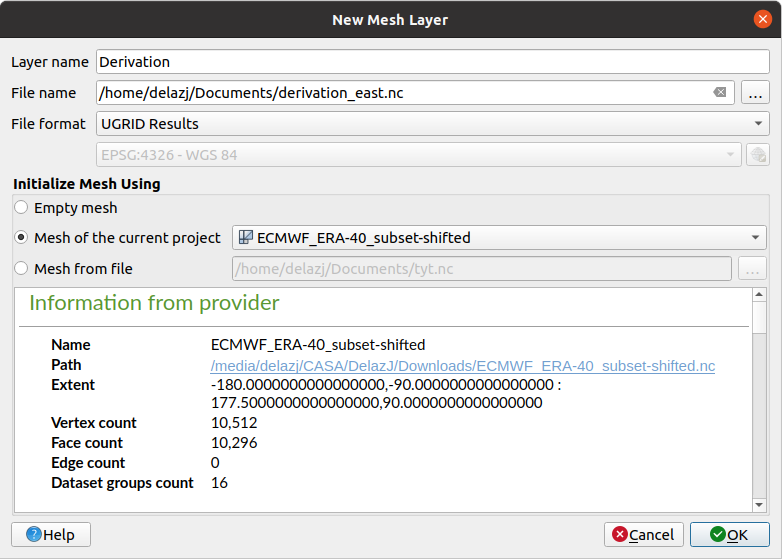
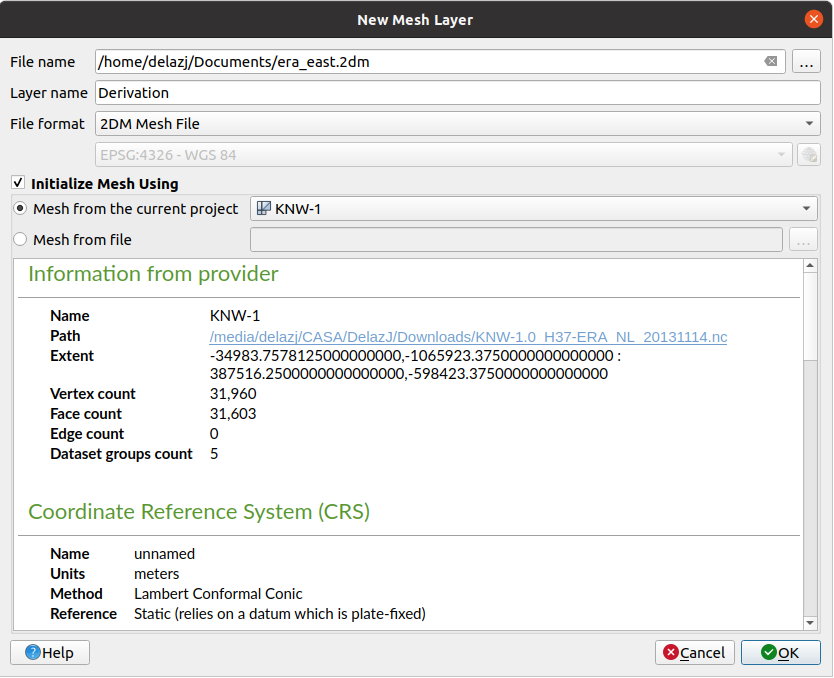
Update mesh layer creation dialog

Changed region(s): [[0.0, 0.0, 1.0, 1.0]]

diff --git a/docs/user_manual/managing_data_source/create_layers.rst b/docs/user_manual/managing_data_source/create_layers.rst
@@ -231,18 +231,18 @@ The :guilabel:`New Mesh Layer` dialog will be displayed as shown in
 #. The first step is to indicate the mesh file location. This can be done
    by pressing the :guilabel:`...` button to the right of the
    :guilabel:`File name` field and select an existing mesh file
-   or create a new one. QGIS will automatically add the right extension to
-   the name you provide.
+   or create a new one.
 #. Provide a name (:guilabel:`Layer name`), i.e. the name the layer is
    displayed with in the :guilabel:`Layers` panel
 #. Select the :guilabel:`File format`: currently supported mesh file formats
    are ``2DM Mesh File (*.2dm)``, ``Selafin File (*.slf)`` and ``UGRID (*.nc)``.
 #. Indicate the :ref:`Coordinate Reference System <crs_selector>` to assign
    to the dataset
-#. The above steps will generate an empty layer you can work with.
-   It's however possible to initialize the layer with an existing dataset,
-   i.e. populate the new layer with faces and vertices from another mesh layer.
-   To do so:
+#. The above steps will generate an empty layer that you can afterwards
+   digitize vertices and add dataset groups to.
+   It's however also possible to initialize the layer with an existing dataset,
+   i.e. populate the new layer with vertices, edges or faces from another
+   mesh layer. To do so:
    
    #. Check |checkbox| :guilabel:`Initialize Mesh using`
    #. and select either a :guilabel:`Mesh from the current project`
@@ -252,6 +252,11 @@ The :guilabel:`New Mesh Layer` dialog will be displayed as shown in
    Note that only the structure of the mesh layer is transferred to the new layer;
    their datasets are not copied.
 
+.. Is "structure" the correct word? it also takes crs, extent,,, right?
+ And TBH I'm unsure of what is copied; the layer I create from a template has
+ a "bed elevation" dataset group, full of 0 values. That group was not in the template.
+ I don't know what it is. So feedback from somene that knows what really happens
+ here is required.
 
 .. index:: New Temporary Scratch layer
 .. _vector_new_scratch_layer:
